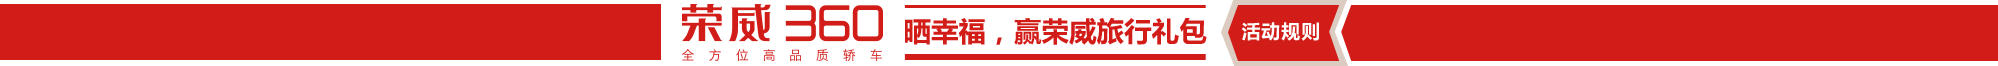
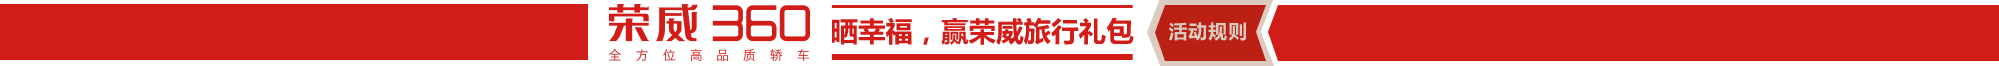
zhezhao finish 待加响应

Changed region(s): [[0.2793, 0.0, 0.6827, 1.0]]

diff --git a/app/assets/stylesheets/global.css.scss b/app/assets/stylesheets/global.css.scss
@@ -91,7 +91,6 @@ button.properties{
 .main-inner{
   background: url(image_path('bg.jpg')) no-repeat;
   background-size: cover;
-  margin-top: -6px;
   position: relative;
 }
 .banner{
@@ -101,13 +100,14 @@ button.properties{
   top: -2%;
   margin: 4px 0;
   background-size: cover;
+  margin-top: -89px;
   .warp{
     margin: 0 auto;
     width: 1012px;
     span{
       display: block;
       height: 54px;
-      width: 110px;
+      width: 330px;
       float: right;
       margin-right: 196px;
       &:hover{
@@ -496,6 +496,7 @@ button.properties{
     width: 100%;
     text-align: center;
     z-index: 10;
+    display: none;
     .warp{
       position: relative;
       width: 1012px;
@@ -515,8 +516,21 @@ button.properties{
       }
       .sharebutton{
         margin-top: -40px;
+        position: relative;
         &:hover{
           cursor: pointer;
+        }
+        span{
+          display: inline-block;
+          width: 56px;
+          height: 69px;
+          position: absolute;
+        }
+        .weixin{
+          left: 513px;
+        }
+        .weibo{
+          left: 569px;
         }
       }
     }
@@ -678,4 +692,14 @@ button.properties{
       }
     }
   }
+}
+.zhezhao{
+  background-color: #000000;
+  opacity:0.5;
+  position: absolute;
+  z-index: 9;
+  width: 100%;
+  height: 100%;
+  top: 0;
+  display: none;
 }

diff --git a/app/assets/javascripts/application/index.js b/app/assets/javascripts/application/index.js
@@ -1,0 +1,51 @@
+$(function(){
+	//遮罩显示
+	function showzhezhao(){
+		$('.zhezhao').css('display','block');
+		var wheight =$(document).height();
+		console.log(wheight);
+		$('.zhezhao').css('height',wheight);
+	}
+	//遮罩关闭
+	$('.close').on('click', function(event) {
+		event.preventDefault();
+		/* Act on the event */
+		$('.tanchu').hide();
+		$('.zhezhao').hide();
+	});
+	//规则弹出
+	$('.banner span').on('click',function(){
+		showzhezhao();
+		$('.huodongguize').show();
+	});
+	//我要上传弹出
+	$('.title1 img').on('click', function(event) {
+		event.preventDefault();
+		/* Act on the event */
+		showzhezhao();
+		$('.shangchuan').show();
+	});
+	//注册弹出（加判断）
+	$('.shangchuan .sharebutton').on('click',function(event) {
+		event.preventDefault();
+		/* Act on the event */
+		$('.shangchuan').hide();
+		$('.zhuce').show();
+	});
+	//注册提交后，上传成功弹出
+	$('.zhuce .sharebutton').on('click',function(event) {
+		event.preventDefault();
+		/* Act on the event */
+		$('.zhuce').hide();
+		$('.gongxi').show();
+	});
+	//分享按钮
+	$('.sharebutton .weixin').on('click',function(event) {
+		event.preventDefault();
+		/* Act on the event */
+	});
+	$('.sharebutton .weibo').on('click',function(event) {
+		event.preventDefault();
+		/* Act on the event */
+	});
+});
